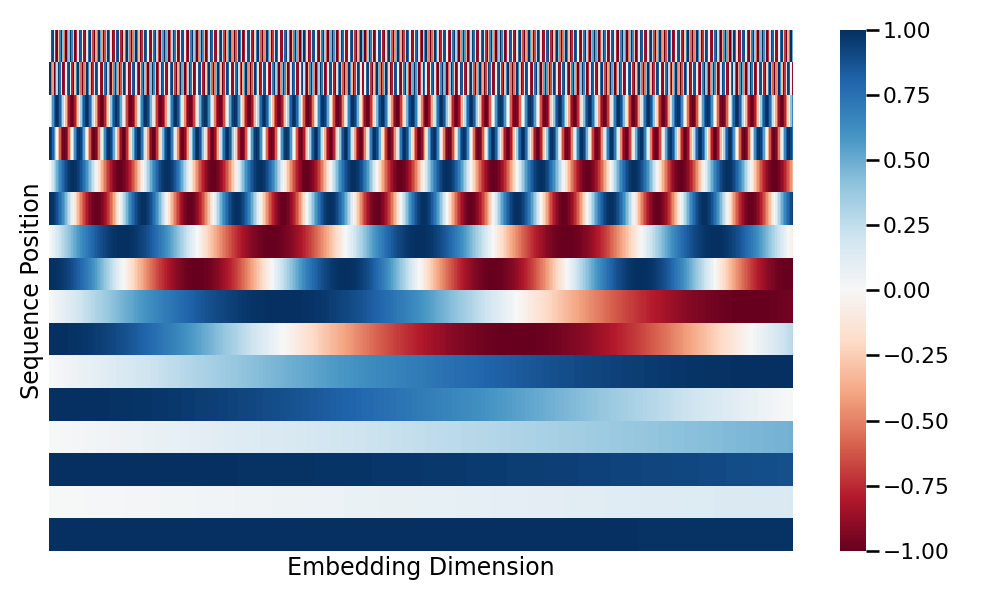
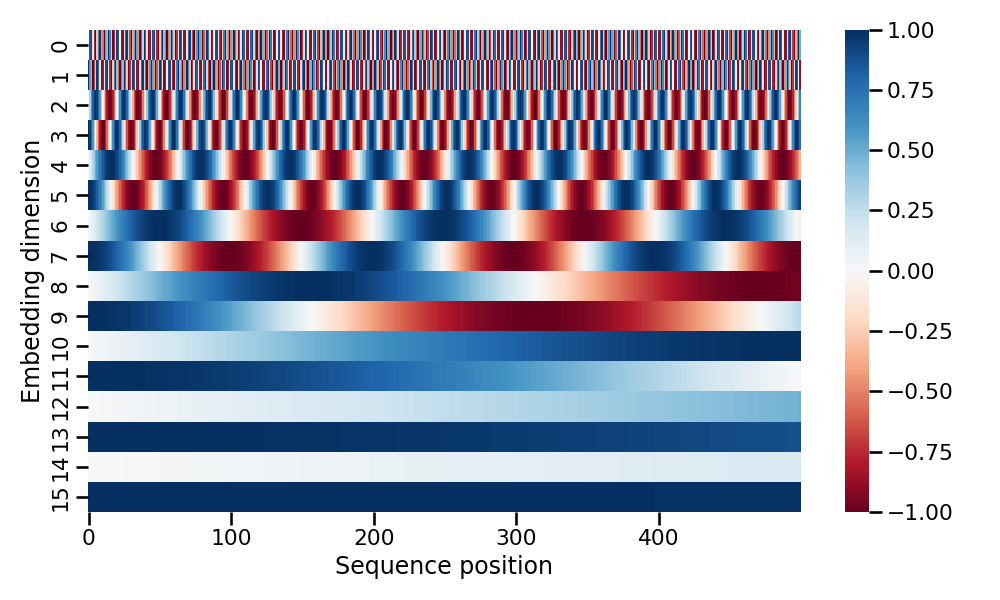
added attention and tokenization_embeddings sections

diff --git a/src/visualizations.py b/src/visualizations.py
@@ -253,9 +253,9 @@ def display_positional_encoding():
     pe = pe_lut.numpy().transpose()
 
     plt.figure(figsize=(10, 6))
-    sns.heatmap(pe, cmap="RdBu", center=0, annot=False, yticklabels=False, xticklabels=False)
-    plt.xlabel("Embedding Dimension")
-    plt.ylabel("Sequence Position")
+    sns.heatmap(pe, cmap="RdBu", center=0, annot=False, yticklabels=True, xticklabels=100)
+    plt.xlabel("Sequence position")
+    plt.ylabel("Embedding dimension")
     plt.tight_layout()
     plt.savefig(os.path.join(os.getcwd(), "docs/assets/img/positional_encoding.png"))
     plt.show()
@@ -374,7 +374,7 @@ def display_lr_schedule_wsd(config):
     plt.xlabel("Step")
     plt.ylabel("Learning rate")
     plt.tight_layout()
-    plt.savefig(os.getcwd() + f"/docs/assets/img/lr_scheduling_{config.training_hp.lr_scheduler.type}.png")
+    plt.savefig(os.path.join(os.getcwd(), f"/docs/assets/img/lr_scheduling_{config.training_hp.lr_scheduler.type}.png"))
     plt.show()
 
 
@@ -426,7 +426,7 @@ def display_lr_schedule_original(config):
     plt.ylabel("Learning rate")
     plt.legend()
     plt.tight_layout()
-    plt.savefig(os.getcwd() + f"/docs/assets/img/lr_scheduling_{config.training_hp.lr_scheduler.type}.png")
+    plt.savefig(os.path.join(os.getcwd(), f"/docs/assets/img/lr_scheduling_{config.training_hp.lr_scheduler.type}.png"))
     plt.show()
 
 
@@ -463,7 +463,7 @@ def display_label_smoothing(config):
     plt.xlabel(None)
     plt.ylabel(None)
     plt.tight_layout()
-    plt.savefig(os.getcwd() + "/docs/assets/img/label_smoothing.png")
+    plt.savefig(os.path.join(os.getcwd(), "/docs/assets/img/label_smoothing.png"))
     plt.show()
 
 
@@ -493,7 +493,7 @@ def display_training_loss(config, csv_path):
     plt.legend(loc="upper right")
     plt.grid(alpha=0.3)
     plt.tight_layout()
-    plt.savefig(os.getcwd() + "/docs/assets/img/training_loss.png")
+    plt.savefig(os.path.join(os.getcwd(), "/docs/assets/img/training_loss.png"))
     plt.show()
 
 
@@ -529,7 +529,7 @@ def display_performance_metrics(csv_path):
     plt.legend()
     plt.grid(alpha=0.3)
     plt.tight_layout()
-    plt.savefig(os.getcwd() + "/docs/assets/img/performance_metrics.png")
+    plt.savefig(os.path.join(os.getcwd(), "/docs/assets/img/performance_metrics.png"))
     plt.show()
 
 
@@ -574,7 +574,7 @@ if __name__ == "__main__":
 
     # Experiments results graphs --------------------------------------------------------------------------------------
 
-    results_csv = os.getcwd() + "/data/eval/tfs_mt_small_251104-1748.csv"
+    results_csv = os.path.join(os.getcwd(), "/data/eval/tfs_mt_small_251104-1748.csv")
 
     display_training_loss(config, results_csv)
     display_performance_metrics(results_csv)

diff --git a/docs/architecture_explain/attention.md b/docs/architecture_explain/attention.md
@@ -1,0 +1,139 @@
+# The Attention Mechanism
+
+At the core of the Transformer lies the attention mechanism, which allows the model to dynamically focus on different parts of the input when processing each element. To understand how this works, it is necessary to explore both the intuition behind it and the specific mathematical formulation used in this implementation.
+
+Consider the translation of the English sentence _"The transformer architecture was introduced in 2017"_ into Italian: _"L'architettura transformer è stata introdotta nel 2017"_. When translating the word _"introduced"_ to _"introdotta"_, the surrounding context must be examined to determine the correct gender agreement. Attention is paid to _"architecture"_ to determine that the past participle should be feminine (_"introdotta"_), and moderate attention to _"transformer"_ to understand what kind of architecture is being discussed. This selective focus is exactly what attention mechanisms formalize.
+
+
+This mechanism is implemented through a retrieval system structured around **queries**, **keys**, and **values**. In this framework, the model processes each word by generating a **query** $q$, which represents the specific information it currently needs to resolve, such as the grammatical dependencies or semantic attributes of the word. It is also referred to as the **focus of attention**. Simultaneously, every word in the input sequence provides a **key** $k$ that serves as a descriptive index or metadata, identifying the type of information it contains. By computing the compatibility between the query of the target word and the keys of all other words, the system determines a relevance weight for each word in the sequence, called **attention weights**. These weights are then applied to the **values** $v$, which hold the actual latent representations of the words. The final output is a weighted sum of these values, effectively filtering the sequence to extract only the most relevant informational content for the current processing step.
+
+
+## Scaled Dot-Product Attention
+
+The **scaled dot-product attention** is the variant employed in _Attention Is All You Need_[^1].
+
+For a specific input vector $x_i \in \mathbb{R}^{d_{model}}$, three unique representations are generated: a **query** $q_i \in \mathbb{R}^{d_{k}}$, a **key** $k_i \in \mathbb{R}^{d_{k}}$, and a **value** $v_i \in \mathbb{R}^{d_{v}}$. These are obtained by projecting $x_i$ using learned weight matrices:
+
+$$
+q_i = x_i W^Q  \quad\quad k_i = x_i W^K  \quad\quad  v_i = x_i W^V
+$$
+
+with $W^Q \in \mathbb{R}^{d_{model},d_k}$, $W^K \in \mathbb{R}^{d_{model},d_k}$ and $W^V \in \mathbb{R}^{d_{model},d_v}$. In this project $d_k = d_v$ for simplicity.
+
+To determine how much the element $i$ should attend to another element $j$, a **similarity score** is calculated by taking the dot product between the query $q_i$ and the key $k_j$.
+
+However, as the dimension of the vectors $d_{k}$ increases, the dot products can grow quite large. This magnitude can push the softmax function into regions with extremely small gradients, obstructing the training process. To mitigate this, the scores are scaled by dividing by $\sqrt{d_{k}}$.
+
+The attention weights $\alpha_{ij}$ are obtained by applying the **softmax** function to these scaled scores across all possible keys $j$:
+
+$$
+\alpha_{ij} = \frac{\exp(q_i \cdot k_j / \sqrt{d_k})}{\sum_{l} \exp(q_i \cdot k_l / \sqrt{d_k})}
+$$
+
+This operation is fundamental for three main reasons:
+
+1. **Normalization**: It transforms raw similarity scores into a probability distribution that sums to 1. This ensures that the attention output is a stable weighted average of the values, preventing the output magnitudes from exploding.
+2. **Focus**: The exponential nature of the softmax function sharpens the distribution, effectively focusing on the most relevant elements while suppressing less important ones.
+3. **Differentiability**: It is differentiable, allowing the model to learn through gradient descent.
+
+These weights represent the relative importance of each value $v_j$ for the current query $q_i$. The attention output $z_i$ is then computed as the weighted sum of all values:
+
+$$
+z_i = \sum_{j} \alpha_{ij} v_j
+$$
+
+Finally, an output projection matrix $W^O \in \mathbb{R}^{d_v, d_{model}}$ is applied to $z_i$ to project it back to the original model dimension $d_{model}$:
+
+$$
+\text{a}_i = z_i W^O
+$$
+
+
+![Attention process](../assets/img/attention_process.png){ loading=lazy }
+/// figure-caption
+The attention process to calculate the attention output of the input sequence's third element[^2]. Note that here $d_{model}$ is referred to as $d$.
+///
+
+In practice, computing attention for each vector individually cannot be done in parallel. To take advantage of parallelization, all input vectors in a sequence are grouped into a matrix $X \in \mathbb{R}^{S,d_{model}}$. The projections are then performed simultaneously for the entire sequence:
+
+$$
+Q = X W^Q  \quad\quad K = X W^K  \quad\quad  V = X W^V
+$$
+
+with $Q \in \mathbb{R}^{S,d_k}$, $K \in \mathbb{R}^{S,d_k}$ and $V \in \mathbb{R}^{S,d_v}$.
+
+By representing the queries, keys, and values as matrices ($Q, K, V$), the attention for the entire sequence can be computed using a single set of matrix operations. This **matricial implementation** allow to parallelize the scoring and weighting process across all positions at once.
+
+The formulation for the scaled dot-product attention in matricial form is:
+
+$$
+Attention(Q, K, V) = softmax\left(\frac{QK^T}{\sqrt{d_{k}}}\right)V
+$$
+
+After computing the scores and applying the scaling factor, the **softmax** function is applied row-wise. These weights are then used to compute a weighted sum of the values $V$. Finally, similar to the single-vector case, the output is projected using $W^O$.
+
+
+## Multi-Head Attention
+
+What presented in the previous section can be referred to as single-head attention. Although it is a powerful operation, the Transformer architecture employs the **multi-head attention**. The intuition is that different aspects of the relationship between words might be important in different contexts. One attention head might focus on syntactic relationships (like subject-verb agreement), while another focuses on semantic coreference.
+
+Rather than computing attention once globally, the $Q, K$, and $V$ matrices are projected into $A$ different lower-dimensional spaces (each of dimension $d_{head}$) and $A$ parallel attention operations are computed.
+
+$$
+\text{MultiHeadAttention}(Q, K, V) = \text{Concat}(head_1, head_2, ..., head_A) W^O
+$$
+
+where each head is: $\quad head_i = Attention(QW_i^Q, KW_i^K, VW_i^V)$
+
+
+An important detail in this project is the handling of the model dimension $d_{model}$. Standard Transformers often require $d_{model}$ to be divisible by the number of heads. However, to support pretrained embeddings like GloVe (which come in fixed sizes: 50, 100, 200 and 300), the code relaxes this constraint. It projects the input $X$ to spaces of dimensions $d_{model} \times A * d_{head}$[^3] and uses an output projection matrix $W^O \in \mathbb{R}^{A * d_{head}, d_{model}}$ to map the concatenated results back to the original $d_{model}$, ensuring mathematical consistency regardless of the input size.
+
+## Attention Types and Masking Strategies
+
+Before discussing specific masking strategies, the concept of **padding** must be addressed. For the model to process multiple sequences in parallel (batches), all sequences within a batch must have the same length. Since natural language sentences vary in size, they are standardized by appending special `<PAD>` tokens until they reach a uniform length. However, these tokens do not carry semantic meaning and should not contribute to the attention scores or the final weighted sum. Masking is the mechanism used to ensure that the model ignores these tokens, preventing them from influencing the representation of valid words.
+
+Proper masking is critical for Transformer functionality. Masks are implemented as matrix operations that selectively block information flow between tokens by setting certain attention scores to $-\infty$ before the softmax operation.
+
+
+
+### Encoder Self-Attention
+
+In the encoder, tokens should attend to all other non-padding tokens in the sequence.
+
+![Encoder attention weights](../assets/img/attention_matrix.png){ loading=lazy }
+/// figure-caption
+Encoder attention weights illustrating how all non-padding tokens can interact.
+///
+
+A position $(i, j)$ in the **padding mask** is "True" only if both tokens $i$ and $j$ are not padding. This ensures that the model never looks at padding tokens nor allows padding tokens to influence others.
+
+In this scenario, it is important to note that the encoder attention is **bidirectional**, since the architecture assumes the source sequence to be entirely available at the start.
+
+### Decoder Causal Attention
+
+The decoder uses a special masking strategy to maintain the auto-regressive property: when predicting the next word, it should only look at past words, never at future ones.
+
+![Causal attention weights](../assets/img/causal_attention_matrix.png){ loading=lazy }
+/// figure-caption
+Causal attention weights showing the lower-triangular structure.
+///
+
+This is achieved by applying a **causal mask**, which is a lower-triangular matrix. In this implementation, this is combined with the padding mask using a logical AND operation. This mask ensures a token at position $i$ can only attend to positions $j \le i$ that are also not padding.
+
+### Decoder Cross-Attention
+
+In cross-attention, the **queries** come from the target sequence (the decoder), while the **keys** and **values** come from the source sequence representation (the encoder output).
+
+![Cross attention weights](../assets/img/cross_attention_matrix.png){ loading=lazy }
+/// figure-caption
+Cross attention weights showing target-to-source relevance.
+///
+
+The masking strategy here ensures that target tokens do not attend to source padding tokens. Note that the number of rows in the attention matrix is determined by the query (target sequence length), while the number of columns is determined by the key (source sequence length). This allows the decoder to pick relevant information from the encoded source sentence at each step of the translation.
+
+
+[^1]: Vaswani, A., Shazeer, N., Parmar, N., Uszkoreit, J., Jones, L., Gomez, A., Kaiser, L. \& Polosukhin, I. Attention Is All You Need.  (2017), <https://arxiv.org/abs/1706.03762>
+
+[^2]: Jurafsky, D. \& Martin, J. Speech and Language Processing: An Introduction to Natural Language Processing, Computational Linguistics, and Speech Recognition, with Language Models.  (2025), <https://web.stanford.edu/~jurafsky/slp3/>
+
+[^3]: Consider the following design choice has been made for simplicity: $d_k = d_v = d_{head}$, so the matrices $Q$, $K$ and $V$ have the same dimensions.

diff --git a/docs/architecture_explain/tokenization_embeddings.md b/docs/architecture_explain/tokenization_embeddings.md
@@ -1,0 +1,82 @@
+
+# Tokenization and Embeddings
+
+In the Transformer architecture, the process of transforming raw text into continuous numerical representations involves two major stages: **Tokenization** and **Embedding**.
+
+## Tokenization
+
+Tokenization is the process of breaking down raw text into smaller units called **tokens**. This step is fundamental because neural networks require structured, numerical input rather than raw text strings. By decomposing a sentence into these discrete units, the model can map each unique token to a specific integer index in a fixed vocabulary, thereby establishing the atomic units of meaning that the subsequent embedding layer transforms into dense vectors. Furthermore, the choice of tokenization granularity allows the system to balance the trade-off between capturing rich semantic relationships and maintaining a manageable vocabulary size for the model's parameters.
+
+
+While modern Transformer models use subword tokenization algorithms like Byte-Pair Encoding, this implementation utilizes a **word-level strategy**. This choice ensures direct compatibility with GloVe (Global Vectors for Word Representation)[^1], leveraging pretrained word embeddings for rich semantic representation from the start of training. The tokenizer handles the conversion of strings into unique numerical identifiers, managing contractions and isolating punctuation to maintain consistency across the dataset.
+
+To ensure computational efficiency and focus on significant linguistic patterns, the vocabulary is refined through specific inclusion criteria. A minimum frequency threshold establishes the necessary number of occurrences for a word to be included in the vocabulary, effectively filtering out noise and rare terms. Additionally, the total vocabulary size is capped to maintain a manageable parameter count for the model.
+
+Sequence structure is further managed through four reserved tokens: start-of-sequence `<s>` and end-of-sequence `</s>` tokens mark the boundaries of each sentence, a padding token `<PAD>` enables batch alignment by ensuring uniform sequence lengths, and an unknown token `<UNK>` handles any words that have not been encountered during training.
+
+
+## Embeddings
+
+The embedding layer transforms discrete token IDs into dense and continuous vectors of dimension $d_{model}$, representing a fundamental shift from symbolic indices to a continuous vector space.
+
+Traditionally, words were represented through **sparse embeddings** like one-hot encoding or statistical weightings such as TF-IDF (Term Frequency-Inverse Document Frequency). In these schemas, each word is typically a vector in a space defined by the vocabulary size $V$; for one-hot encoding, this is a vector with a single active bit. However, these approaches suffer from extreme high dimensionality and orthogonality failing to capture any semantic relationship.
+**Dense embeddings** overcome these limitations by projecting words into a much smaller space where each dimension can capture nuanced linguistic features. By mapping semantically similar words to nearby points in this high-dimensional space, the model gains the ability to capture complex meanings. To better appreciate how these relationships are formed, tools like the [TensorFlow Projector](https://projector.tensorflow.org/) offer an interactive way to explore word embeddings in a 3D visual space via dimensionality reduction techniques.
+
+
+In the Transformer architecture, these embeddings serve as the critical semantic foundation for the **Attention Mechanism**; the calculation of Query-Key similarity fundamentally relies on the geometric orientation of these vectors to determine relevance. A design choice of this implementation is the use of GloVe for embedding initialization. By inheriting geometric relationships learned from massive external corpora[^2], the system gains a sophisticated understanding of language from the start. This is particularly useful in scenarios with limited training data and resources, as the model does not need to learn the core semantic structure of the language from scratch.
+
+To finalize the conceptual transformation of the input, the retrieved dense vectors undergo a scaling operation: they are multiplied by $\sqrt{d_{model}}$. This adjustment is essential for maintaining a balanced integration of information when the embeddings are subsequently merged with **Positional Encodings**. Because the positional signals are generated with a fixed amplitude, scaling the learned embeddings ensures that their variance is of a comparable magnitude. This prevents the static positional information from dominating the learned semantic features, allowing the model to effectively preserve both meaning and sequence order within the same high-dimensional representation.
+
+$$
+\text{ScaledEmbeddings}(x) = \text{Embedding}(x) \cdot \sqrt{d_{model}}
+$$
+
+From an implementation perspective, this layer is structured as a **lookup table** of learnable weights of dimensions $V \times d_{model}$, where $V$ represents the total vocabulary size. In this matrix, the $i$-th row corresponds to embedding representation of the $i$-th token in the vocabulary. During the forward pass, the model uses the discrete token IDs as indices to retrieve the corresponding dense vectors from this table, effectively mapping symbolic integers to their position in the embedding space.
+
+## Positional Encoding
+
+Unlike RNNs that process tokens sequentially or CNNs that use local kernels, the Transformer's attention mechanism is **permutation-invariant**. This means that without extra information, the model sees a sequence as a bag of words and cannot distinguish between sentences like _The cat ate the mouse_ and _The mouse ate the cat_. To preserve the structural meaning of language, positional information must be injected into the model. The general idea is to add a positional vector to each word embedding, such that the input $x$ to the network becomes:
+
+$$
+x = \text{Word Embeddings} + \text{Positional Encoding}
+$$
+
+
+Historically several methods were considered for this purpose, such as **absolute indexing**, assigning a simple integer $(0, 1, 2, ...)$ to each position, and **normalized indexing**, assigning a index (normalized by sequence length) in the range $[0, 1]$. However, these approaches proved ineffective: absolute values can become excessively large, causing numerical instability and covering the word embeddings, while normalized index makes distances dependent on sequence length. To solve these issues, the original paper proposed the **sinusoidal positional encoding**, where a unique vector is added to each word embedding based on the following functions:
+
+$$
+\begin{align*}
+PE_{(pos,2i)} &= \sin(pos/10000^{2i/d_{model}}) \\
+PE_{(pos,2i+1)} &= \cos(pos/10000^{2i/d_{model}})
+\end{align*}
+$$
+
+This method creates a unique fingerprint for every position, as shown in the Figure 1. Each dimension of this positional encoding vector provides a different **granularity in the token position**: lower-indexed dimensions use higher frequencies to capture fine-grained local shifts, while higher-indexed dimensions use lower frequencies to provide a more global sense of position. This hierarchical representation allows the model to disambiguate tokens even in very long sequences.
+As illustrated in Figure 1, dimension 7 provides a coarse-grained indication of whether a token resides within broad positional ranges (0, 100, 200, 300, 400 or 500), whereas dimensions 1 and 2 deliver high-resolution signals for precise positioning.
+
+![Positional encoding](../assets/img/positional_encoding.png){ loading=lazy}
+/// figure-caption
+Positional encoding matrix. Each row represents a position, and each column represents a dimension in the encoding space.
+///
+
+
+Figure 2 provides an alternative way to visualize the positional encoding signals. In both graphs, the y-axis represents the individual dimensions of the positional vector. The square wave signals (right) are included specifically as a conceptual aid to help visualize how the different dimensions encode positional information with varying granularity: for example, the 8th dimension (bottom signal) indicates whether a token resides in the first or second half of the sequence, while the 7th dimension bisects these halves into quarters. The black vertical segments at position 407 illustrate how the intersection of these various frequencies uniquely identifies that specific location in the sequence.
+
+These positional vectors are pre-computed and remain fixed throughout the training process, rather than being learned as model parameters. A key property of this sinusoidal encoding is its ability to represent **relative positions** through simple transformations[^3]. Because sine and cosine functions are periodic and systematically shifted across dimensions, the vector for any position plus a fixed offset (e.g., $pos + k$) can be derived from the vector at $pos$ using a fixed linear transformation.
+
+So the geometric relationship between two positional vectors depends only on the distance between them, not their absolute location in the sequence. This allows the attention mechanism to capture the structural dependencies of language identically, whether they appear at the beginning or the end of a sentence.
+
+
+![Sinusoidal signals](../assets/img/pe_signals.png){ loading=lazy }
+/// figure-caption
+Left: Sinusoidal signals across different dimensions. Right: Comparison with square wave (binary) signals. In these graphs the embedding dimension is 8 and the sequence length is 1024.
+///
+
+
+
+
+[^1]: Pennington, J., Socher, R. \& Manning, C. GloVe: Global Vectors for Word Representation. {\em Empirical Methods In Natural Language Processing (EMNLP)}. pp. 1532-1543 (2014), <http://www.aclweb.org/anthology/D14-1162>
+
+[^2]: More on the [Training](../training_inference/training.md) section.
+
+[^3]: <https://blog.timodenk.com/linear-relationships-in-the-transformers-positional-encoding/>
